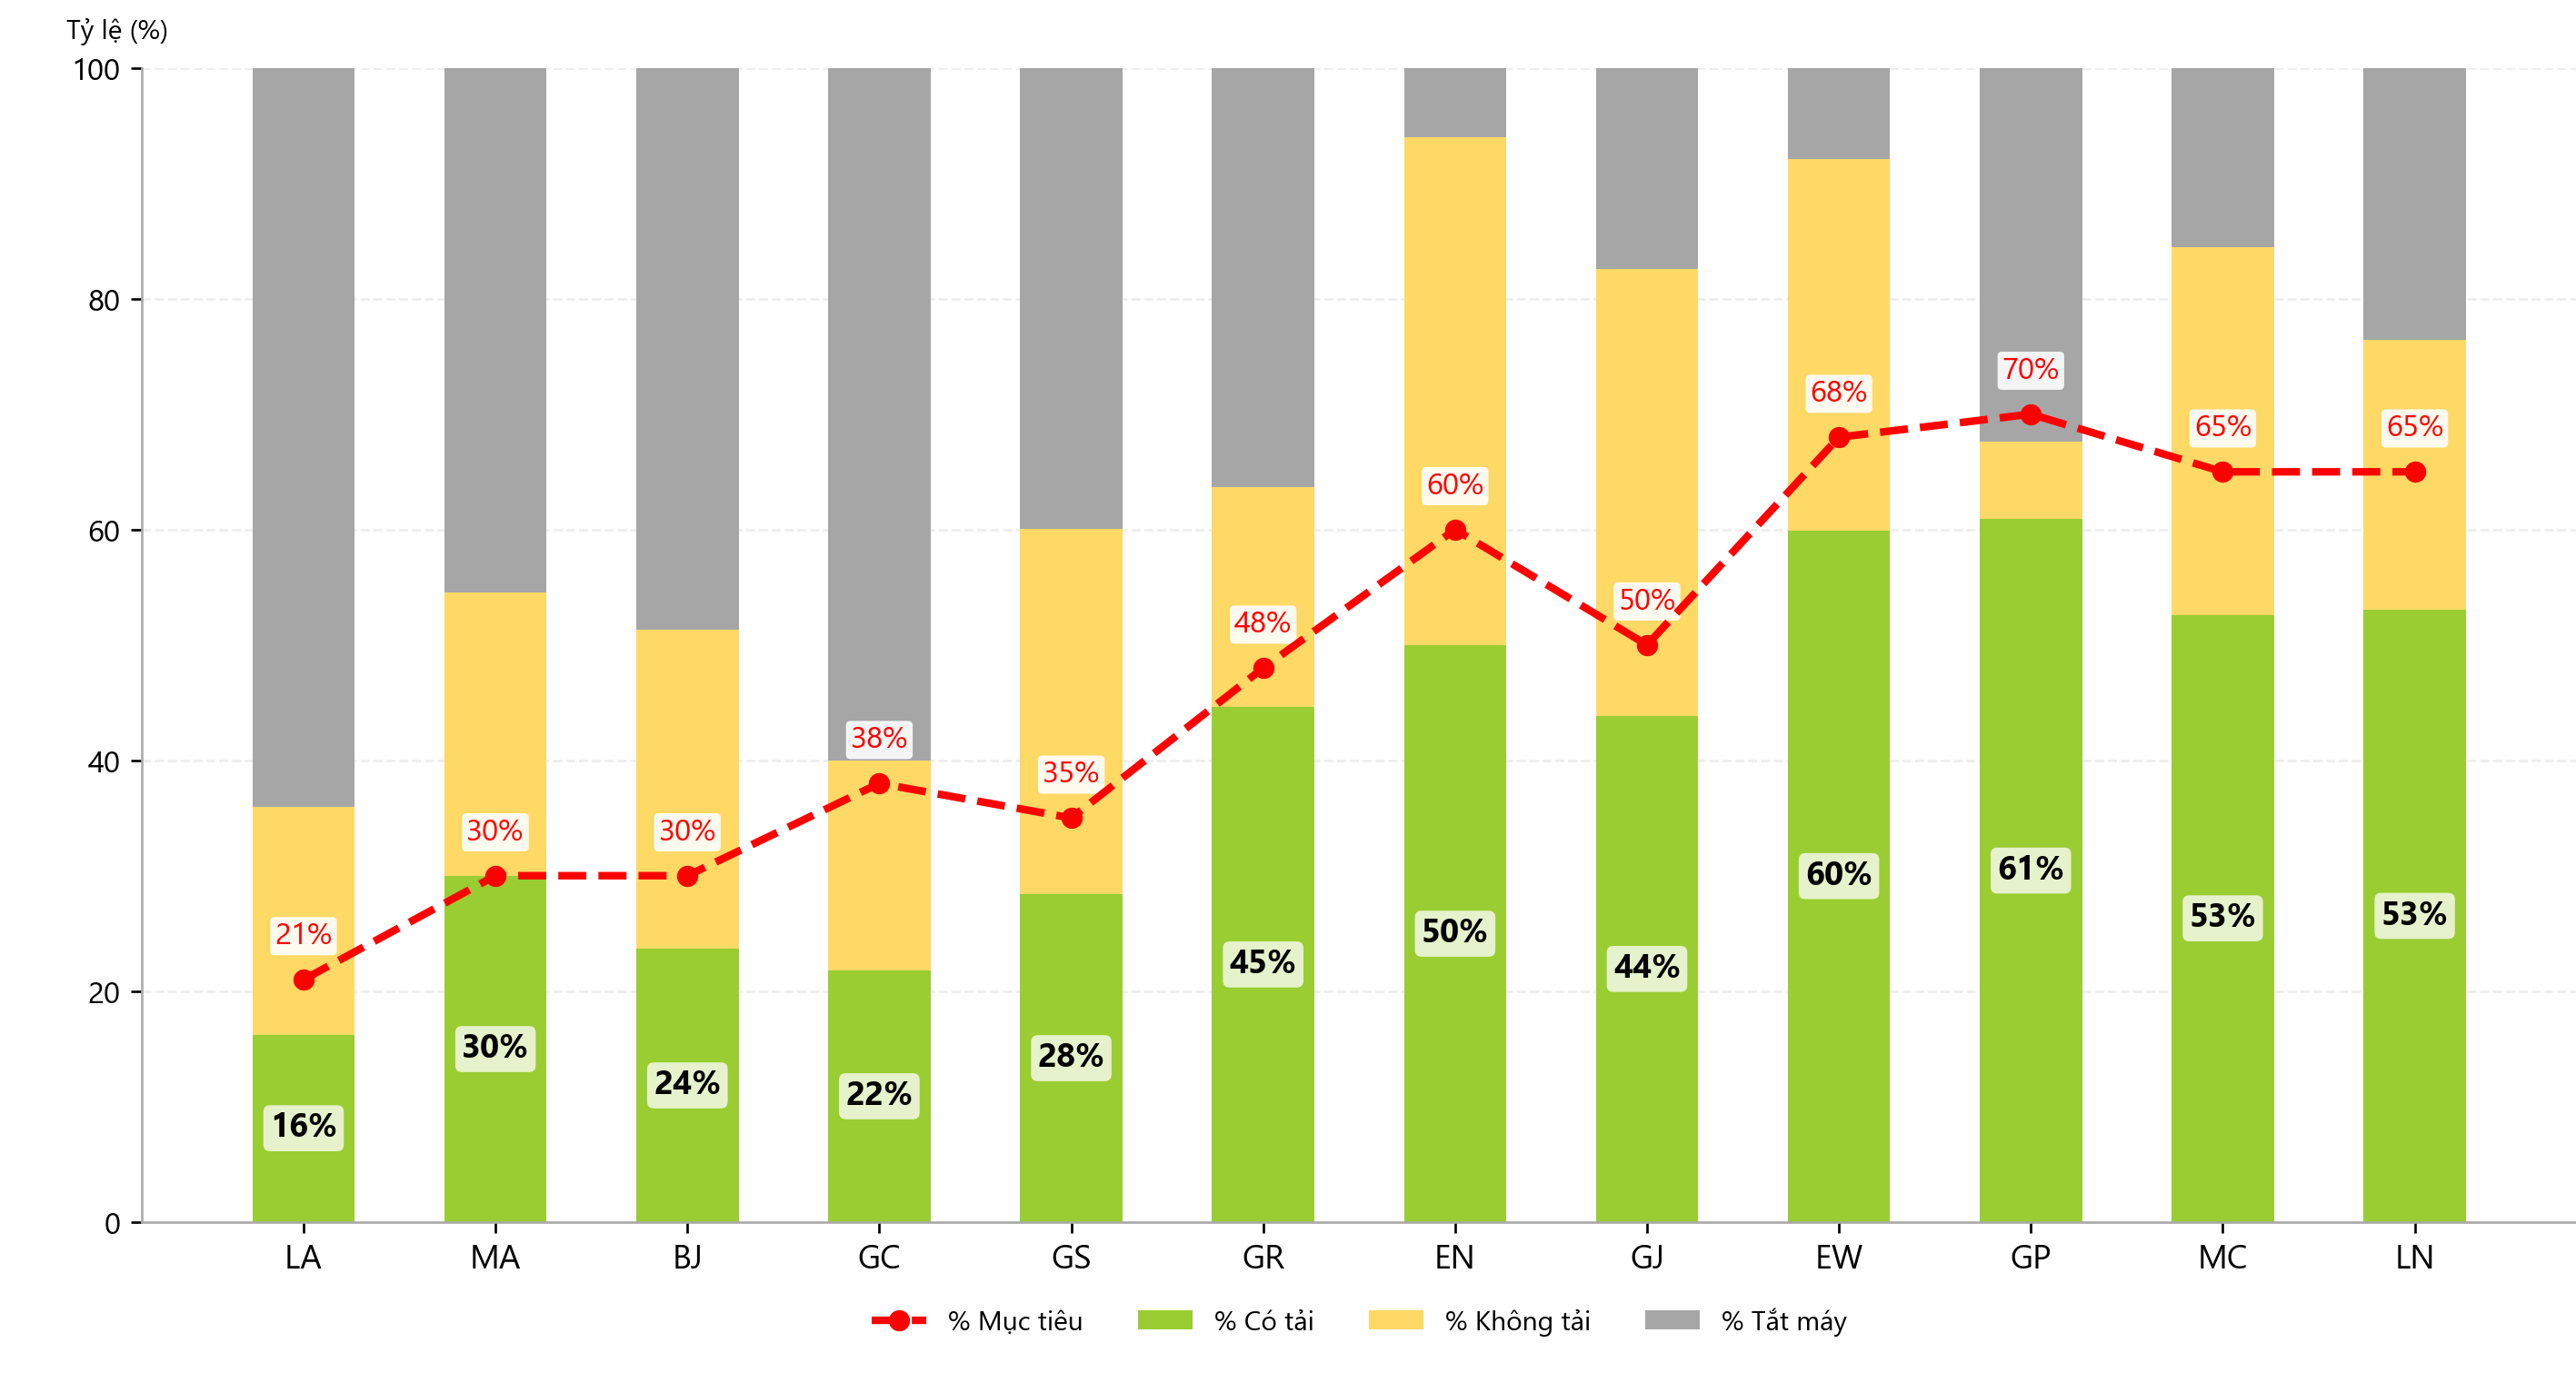
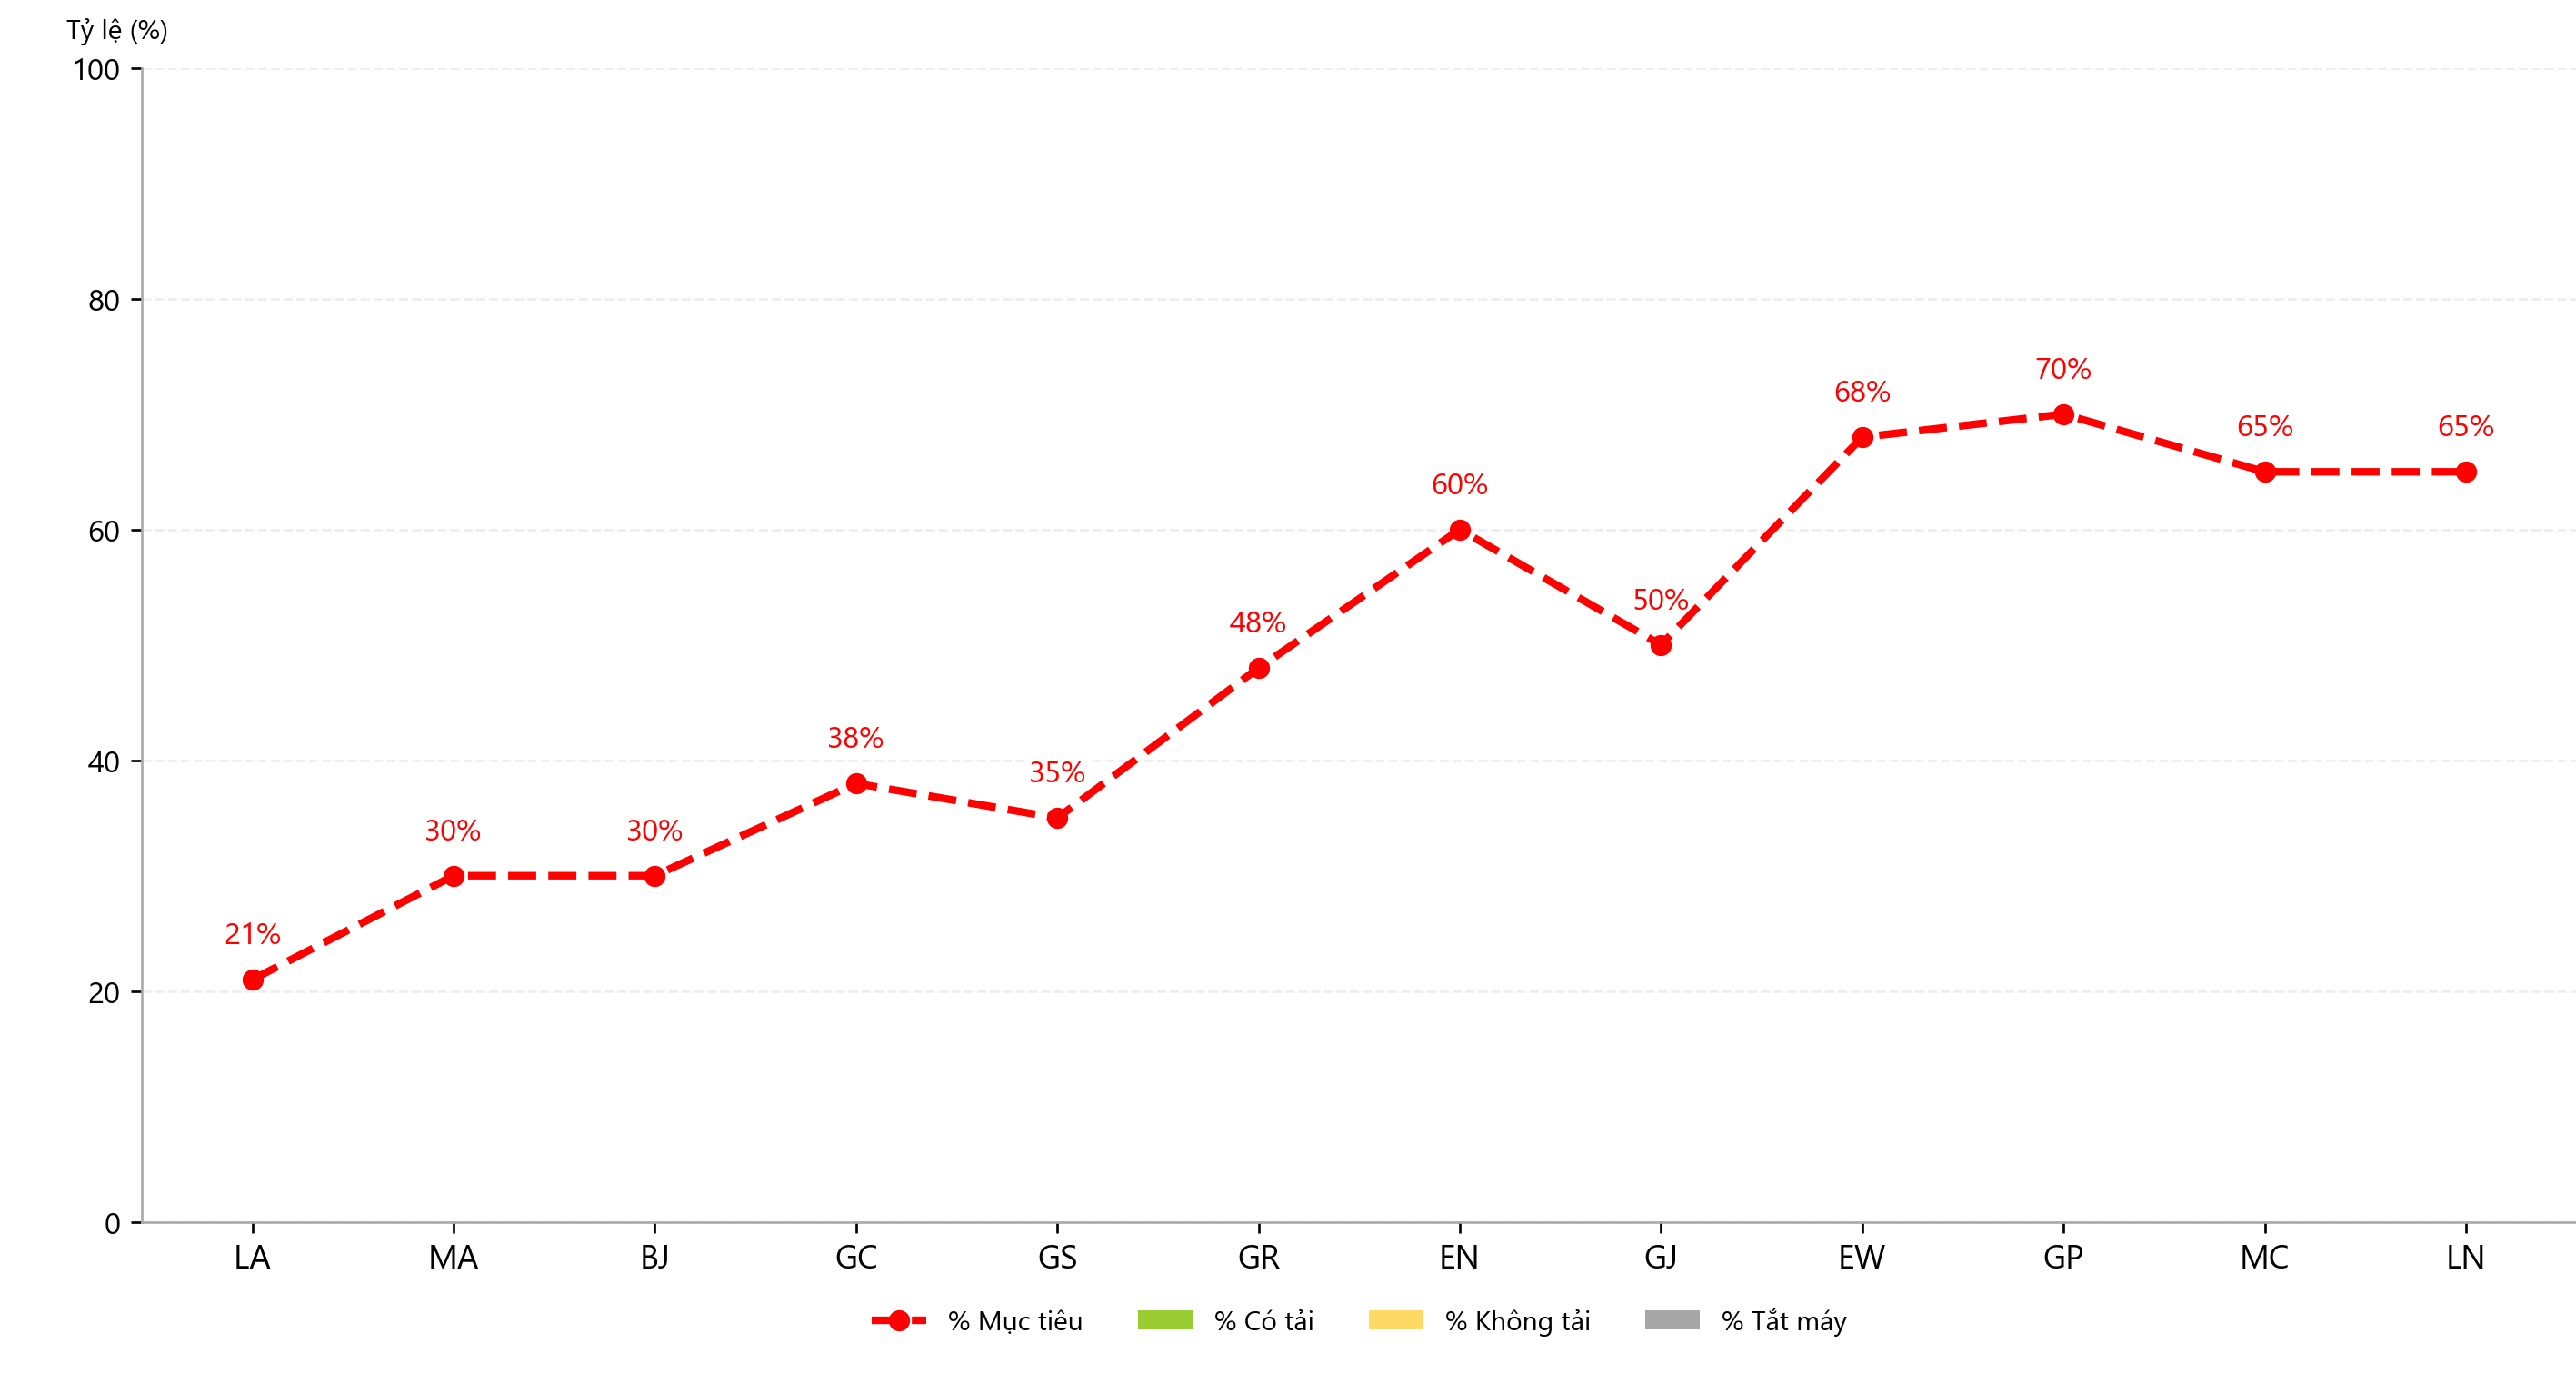
23042026

diff --git a/Bao_Cao_Hang_Ngay.py b/Bao_Cao_Hang_Ngay.py
@@ -131,21 +131,34 @@ def save_figure(fig, output_file):
         pad_inches=0.04
     )
     plt.close(fig)
-# ========== TUNABLES ==========
-EXCEL_FILE = Path(r"\\vdm-fsvr\Du lieu dung chung VDM\PROJECT-IT HOA NGHIEP VU\Báo Cáo Hằng Ngày CK\Hằng ngày_data_view.xlsx")
+# ========== TUNABLES Chính ==========
+# EXCEL_FILE = Path(r"\\vdm-fsvr\Du lieu dung chung VDM\PROJECT-IT HOA NGHIEP VU\Báo Cáo Hằng Ngày CK\Hằng ngày_data_view.xlsx")
+# EXCEL_SHEET = "Hằng ngày"
+# EXCEL_YEAR_FILE = Path(r"\\vdm-fsvr\Du lieu dung chung VDM\PROJECT-IT HOA NGHIEP VU\Báo Cáo Hằng Ngày CK\Tính sản xuất năm 2026.xlsx")
+# EXCEL_YEAR_SHEET = "NĂM 2026"
+# EXCEL_THUCTICH_FILE = Path(r"\\vdm-fsvr\Du lieu dung chung VDM\PROJECT-IT HOA NGHIEP VU\Báo Cáo Hằng Ngày CK\ThucTich_Data.xlsx")
+# EXCEL_THUCTICH_SHEET = "Sheet1"
+# EXCEL_COSTDOWN_FILE = Path(r"\\vdm-fsvr\Cokhi-機工\CONG VIEC CHUNG 2026\★2026年度年次目標設定\5.COSTDOWN 2026\5.MỤC TIÊU 2026\COSTDOWN 2026\Costdown nội tác 2026.xlsx")
+# EXCEL_COSTDOWN_SHEET = "Quản lý MT năm"
+# EXCEL_TIMER_FILE = Path(r"\\vdm-fsvr\Du lieu dung chung VDM\PROJECT-IT HOA NGHIEP VU\Báo Cáo Hằng Ngày CK\DulieutudongTimer_view.xlsx")
+# EXCEL_TIMER_SHEET = "Tong_Hop"
+# PPT_FILE = Path(r"\\vdm-fsvr\Du lieu dung chung VDM\PROJECT-IT HOA NGHIEP VU\Báo Cáo Hằng Ngày CK\Bao_Cao_Hang_Ngay.pptx")
+# ROW_DATE = "Ngày làm việc"
+
+# ========== TUNABLES Test ==========
+EXCEL_FILE = Path(r"D:\Code_cokhi\Bao_Cao_Tu_Dong_PPTX_New\Hằng ngày_data.xlsx")
 EXCEL_SHEET = "Hằng ngày"
-EXCEL_YEAR_FILE = Path(r"\\vdm-fsvr\Du lieu dung chung VDM\PROJECT-IT HOA NGHIEP VU\Báo Cáo Hằng Ngày CK\Tính sản xuất năm 2026.xlsx")
+EXCEL_YEAR_FILE = Path(r"D:\Code_cokhi\Bao_Cao_Tu_Dong_PPTX_New\Tính sản xuất năm 2026.xlsx")
 EXCEL_YEAR_SHEET = "NĂM 2026"
-EXCEL_THUCTICH_FILE = Path(r"\\vdm-fsvr\Du lieu dung chung VDM\PROJECT-IT HOA NGHIEP VU\Báo Cáo Hằng Ngày CK\ThucTich_Data.xlsx")
+EXCEL_THUCTICH_FILE = Path(r"D:\Code_cokhi\Bao_Cao_Tu_Dong_PPTX_New\ThucTich_Data.xlsx")
 EXCEL_THUCTICH_SHEET = "Sheet1"
-EXCEL_COSTDOWN_FILE = Path(r"\\vdm-fsvr\Cokhi-機工\CONG VIEC CHUNG 2026\★2026年度年次目標設定\5.COSTDOWN 2026\5.MỤC TIÊU 2026\COSTDOWN 2026\Costdown nội tác 2026.xlsx")
+EXCEL_COSTDOWN_FILE = Path(r"D:\Code_cokhi\Bao_Cao_Tu_Dong_PPTX_New\Costdown nội tác 2026.xlsx")
 EXCEL_COSTDOWN_SHEET = "Quản lý MT năm"
-EXCEL_TIMER_FILE = Path(r"\\vdm-fsvr\Du lieu dung chung VDM\PROJECT-IT HOA NGHIEP VU\Báo Cáo Hằng Ngày CK\DulieutudongTimer_view.xlsx")
+EXCEL_TIMER_FILE = Path(r"D:\Code_cokhi\Bao_Cao_Tu_Dong_PPTX_New\DulieutudongTimer_view.xlsx")
 EXCEL_TIMER_SHEET = "Tong_Hop"
-PPT_FILE = Path(r"\\vdm-fsvr\Du lieu dung chung VDM\PROJECT-IT HOA NGHIEP VU\Báo Cáo Hằng Ngày CK\Bao_Cao_Hang_Ngay.pptx")
+PPT_FILE = Path(r"D:\Code_cokhi\Bao_Cao_Tu_Dong_PPTX_New\Bao_Cao_Hang_Ngay.pptx")
 ROW_DATE = "Ngày làm việc"
-# OUT_DIR = Path(r"\\vdm-fsvr\Du lieu dung chung VDM\PROJECT-IT HOA NGHIEP VU\Báo Cáo Hằng Ngày CK\charts")
-# OUT_DIR.mkdir(parents=True, exist_ok=True)
+
 
 LOCAL_OUT_DIR = Path(tempfile.gettempdir()) / "BaoCaoHangNgay"
 LOCAL_OUT_DIR.mkdir(parents=True, exist_ok=True)